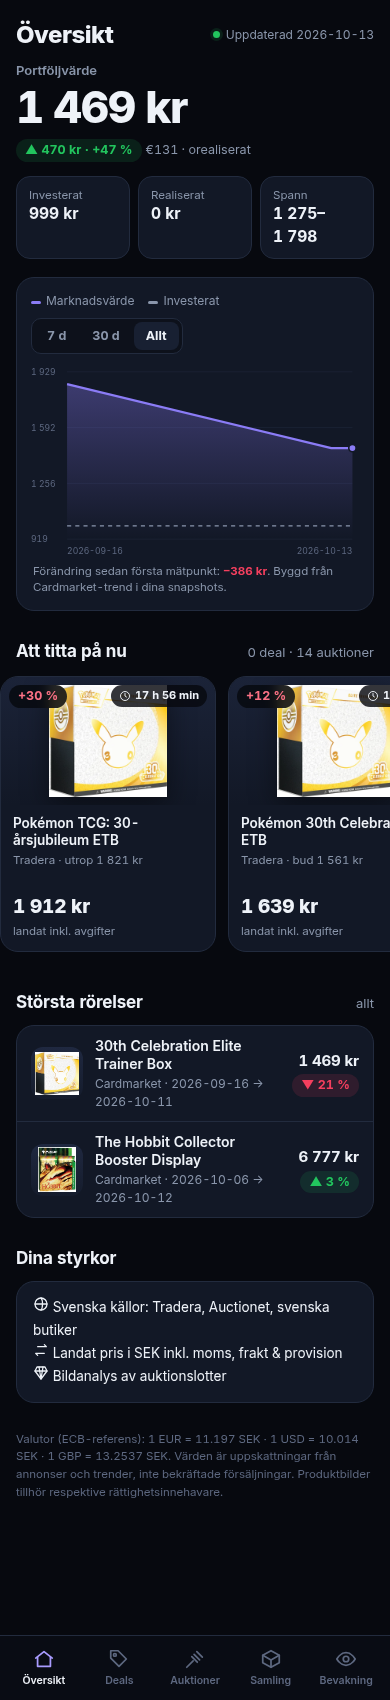
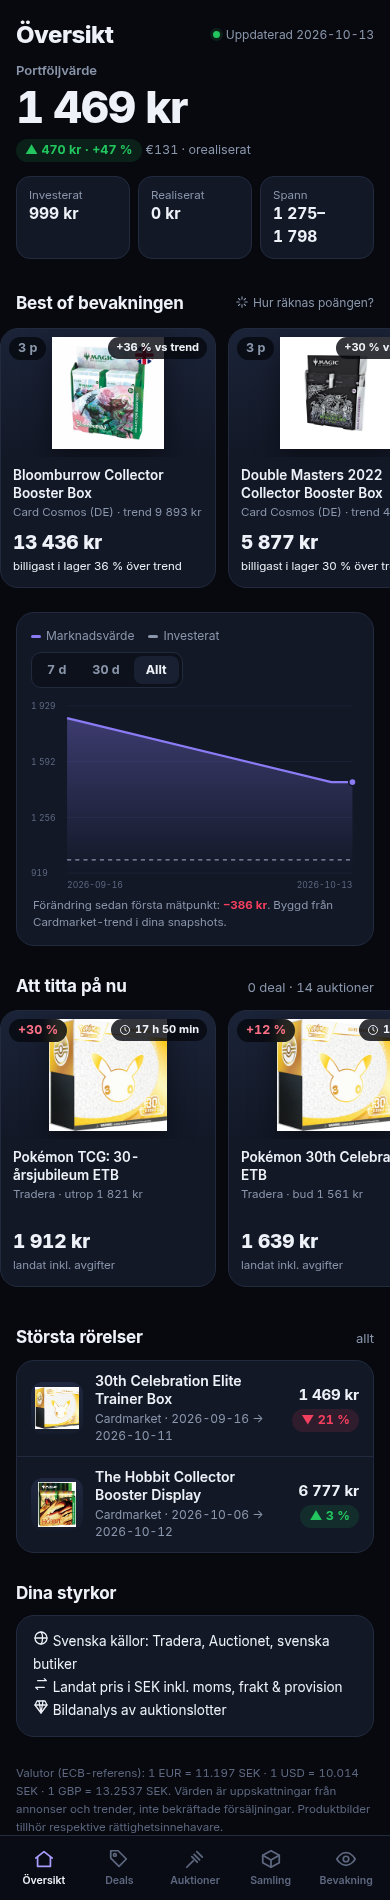
Best of bevakningen med transparent poäng

diff --git a/app.js b/app.js
@@ -164,6 +164,34 @@ function details(it) {
 }
 const expRow = (head, body) => `<div class=row onclick="this.classList.toggle('open')">${head}</div><div class=exp><div>${body}</div></div>`;
 
+// ---------- Best of bevakningen: transparent poäng 0–100 ----------
+const clamp = (v, a, b) => Math.max(a, Math.min(b, v));
+function dealScore(it) {
+  const [b] = bench(it), parts = [], why = [];
+  const ok = offersOf(it).filter(o => o.stock_status === "in_stock" && o.eng && o.L).sort((x, y) => x.L - y.L), best = ok[0];
+  let sc = 0;
+  if (best && b) { const p = clamp(20 + best.d, 0, 40); sc += p; parts.push(`erbjudande ${fmt(p)}`);
+    why.push(best.d >= 0 ? `${esc(best.source)} ${fmt(best.d)} % under trend` : `billigast i lager ${fmt(-best.d)} % över trend`); }
+  const au = auctions().filter(a => a.live && a.item_id === it.id && a.d != null).sort((x, y) => y.d - x.d)[0];
+  if (au) { const hrs = (new Date(au.ends_at) - Date.now()) / 36e5, p = clamp(au.d * 1.5, 0, 30) + (au.d > 0 && hrs < 72 ? 5 : 0); sc += p; parts.push(`auktion ${fmt(p)}`);
+    if (au.d > 0) why.push(`Auktion slutar om ${countdown(au.ends_at)}, bud+avgifter ${fmt(au.d)} % under trend`); }
+  const {pts} = series(it), end = dnum(P.last_updated), old = pts.filter(q => q[0] <= end - 30).pop() || pts[0], last = pts[pts.length - 1];
+  if (old && last && old[0] !== last[0]) { const ch = (last[1] - old[1]) / old[1] * 100, p = clamp(-ch, 0, 20); sc += p; parts.push(`trend ${fmt(p)}`);
+    if (ch < -2) why.push(`Pris fallit ${fmt(-ch)} % på ${fmt(last[0] - old[0])} d`); }
+  const n = new Set(ok.map(o => o.source)).size, p4 = clamp(n * 3, 0, 10); sc += p4; if (n) parts.push(`källor ${p4}`);
+  if (!best && !au) why.unshift("Bevaka – inget verifierat i lager");
+  return {it, sc: Math.round(sc), best, au, b, parts, why};
+}
+function bestOf() {
+  const L = P.items.filter(i => i.status === "watchlist").map(dealScore).sort((a, b) => b.sc - a.sc || (b.best ? 1 : 0) - (a.best ? 1 : 0)).slice(0, 6);
+  const info = `<details class=info><summary>${ic("spark", 14)} Hur räknas poängen?</summary><div class="xs mut">0–100, bara från verklig data i data.json:<br>• <b>Erbjudande (0–40)</b>: billigaste verifierade engelska i-lager-erbjudandet (landat SEK) vs Cardmarket-trend: 20 + % under trend.<br>• <b>Auktion (0–35)</b>: aktiv auktion där bud + avgifter är under trend: 1,5 × %, +5 om < 3 dygn kvar.<br>• <b>Trend (0–20)</b>: fall i trendpris senaste 30 d (1 p per %).<br>• <b>Källor (0–10)</b>: 3 p per butik med verifierat lager.<br>Cardmarket räknas som i lager men priset är inte live-kontrollerat.</div></details>`;
+  return `<div class=sec><h2>Best of bevakningen</h2>${info}</div><div class=strip>${L.map(x => { const o = x.best, a = x.au, link = o ? o.url : a ? a.url : x.it.cardmarket_url || "#bevakning";
+    const price = o ? kr(o.L) : a ? kr(a.per) : "–", where = o ? esc(o.source) : a ? esc(a.platform) + " (auktion)" : "Inget i lager";
+    const d = o ? o.d : a ? a.d : null;
+    return `<a class=hc href="${esc(link)}" ${link.startsWith("#") ? "" : "target=_blank rel=noopener"}><div class=im>${img(x.it)}<span class="chip ${x.sc >= 40 ? "c-g" : x.sc >= 20 ? "c-a" : "c-n"}" style="position:absolute;top:8px;left:8px" title="${esc(x.parts.join(" + "))}">${x.sc} p</span>${d != null ? `<span class=tl>${d >= 0 ? "−" : "+"}${fmt(Math.abs(d))} % vs trend</span>` : ""}</div>
+      <div class=bd><div class=t>${esc(short(x.it.name))}</div><div class="xs mut">${where}${x.b ? ` · trend ${kr(x.b)}` : ""}</div><div class=p>${price}</div><div class="xs ${o || a ? "" : "mut"}" style="color:${o && o.d >= 0 ? "var(--g)" : ""}">${x.why.slice(0, 2).join(" · ")}</div></div></a>`; }).join("")}</div>`;
+}
+
 // ---------- vyer ----------
 function vOverview() {
   const t = totals(), pts = portfolioSeries(), w = winStart(), shown = pts.filter(p => p[0] >= w);
@@ -182,6 +210,7 @@ function vOverview() {
   <section class=hero><div class=lbl>Portföljvärde</div><div class=val>${kr(t.mid)}</div>
     <span class="chip ${t.unreal >= 0 ? "c-g" : "c-r"}">${t.unreal >= 0 ? "▲" : "▼"} ${kr(Math.abs(t.unreal))} · ${pctTxt(t.unreal / t.cost * 100)}</span> <span class="sm mut">${eur(t.mid)} · orealiserat</span>
     <div class=kpis><div class=kpi><span>Investerat</span><b>${kr(t.cost)}</b></div><div class=kpi><span>Realiserat</span><b class="${t.realised > 0 ? "g" : ""}">${kr(t.realised)}</b></div><div class=kpi><span>Spann</span><b>${fmt(t.lo)}–${fmt(t.hi)}</b></div></div></section>
+  ${bestOf()}
   <div class="card chartcard"><div class=top style="margin-bottom:8px"><div class=legend><span><i style="background:#8b7cf6"></i>Marknadsvärde</span><span><i style="background:#8a96ab"></i>Investerat</span></div>
     <div class=seg>${["7d", "30d", "all"].map(r => `<button class="${RANGE === r ? "on" : ""}" onclick="RANGE='${r}';route()">${r === "all" ? "Allt" : r.replace("d", " d")}</button>`).join("")}</div></div>
     <div class=pchart>${lineChart([{color: "#8b7cf6", fill: true, pts: shown.map(p => [...p])}], {cost: t.cost})}</div>

diff --git a/index.html b/index.html
@@ -1,7 +1,7 @@
 <!doctype html><html lang="sv"><head><meta charset="utf-8">
 <meta name="viewport" content="width=device-width,initial-scale=1,viewport-fit=cover">
 <meta name="theme-color" content="#07090f"><meta name="apple-mobile-web-app-capable" content="yes"><meta name="apple-mobile-web-app-status-bar-style" content="black-translucent">
-<title>Samlarportfölj</title><link rel="stylesheet" href="style.css?v=14"></head>
+<title>Samlarportfölj</title><link rel="stylesheet" href="style.css?v=15"></head>
 <body>
 <div class="shell">
   <aside class="side" id="side"></aside>
@@ -10,4 +10,4 @@
   </main>
 </div>
 <nav class="tabbar" id="tabbar"></nav>
-<script src="app.js?v=14"></script></body></html>
+<script src="app.js?v=15"></script></body></html>

diff --git a/style.css b/style.css
@@ -81,3 +81,4 @@ main{flex:1;min-width:0;max-width:1120px;margin:0 auto;padding:calc(14px + env(s
 .legend span{white-space:nowrap}.chartcard .top{flex-wrap:wrap;row-gap:8px}
 .row.oos{opacity:.5}.row.oos b{text-decoration:line-through}.oosl .row{border-top:1px solid var(--line)}
 .row>div{min-width:0}.row .meta .chip{white-space:normal}
+.info{position:relative;font-size:12px;color:var(--mut)}.info summary{cursor:pointer;list-style:none;display:flex;gap:4px;align-items:center}.info summary::-webkit-details-marker{display:none}.info>div{position:absolute;right:0;top:22px;z-index:5;width:290px;background:var(--card2);border:1px solid var(--line);border-radius:12px;padding:10px 12px;line-height:1.5;box-shadow:0 10px 30px rgba(0,0,0,.5)}

diff --git a/README.md b/README.md
@@ -84,3 +84,7 @@ Ordning i rutinen: lägg in priser/erbjudanden → `update.py stock` → `update
 ## Språkfilter & MTG-bevakning
 Globalt språkfilter: engelska (`language_filter` i data.json). Erbjudanden med annat språk (t.ex. tyska) räknas aldrig som deals. Cardmarket-länkar har `language=1`.
 MTG Collector-boxar: riktmärke = Cardmarkets officiella prisguide (`https://downloads.s3.cardmarket.com/productCatalog/priceGuide/price_guide_1.json`, produktlista `.../productList/products_nonsingles_1.json`, kategori "Magic Display"). Slå upp `cardmarket_id` per objekt och lägg till trend som snapshot. Prisguiden är inte språkfiltrerad; ignorera `low` (ofta fel språk). Nya köpbara erbjudanden: skanna Shopify-butikernas `/products.json` (dragonslair.se, nordic-legends.com, cardcosmos.de, paperdealer.eu, manatorsk.com) efter "Collector Booster Box/Display" med `available: true` och engelsk titel.
+
+## Best of bevakningen (Översikt)
+Räknas i webbläsaren (app.js `dealScore`) från data.json – inget extra att underhålla, men poängen blir bara så bra som datan. Poäng 0–100: erbjudande 0–40 (20 + % under trend för billigaste verifierade engelska i-lager-erbjudandet, landat SEK), auktion 0–35 (1,5 × % under trend för aktiv auktion inkl. avgifter, +5 om < 3 dygn kvar), trend 0–20 (fall i trendpris senaste 30 d), källor 0–10 (3 p per butik med verifierat lager). Utan köpbart alternativ visas "Bevaka – inget verifierat i lager".
+Rutinen mån & tors: ny Cardmarket-prisguide-trend per objekt → skanna butiker efter nya erbjudanden → `update.py stock` → `update.py check` → `publish`. Rapportera topp 3 i Best of bevakningen.
